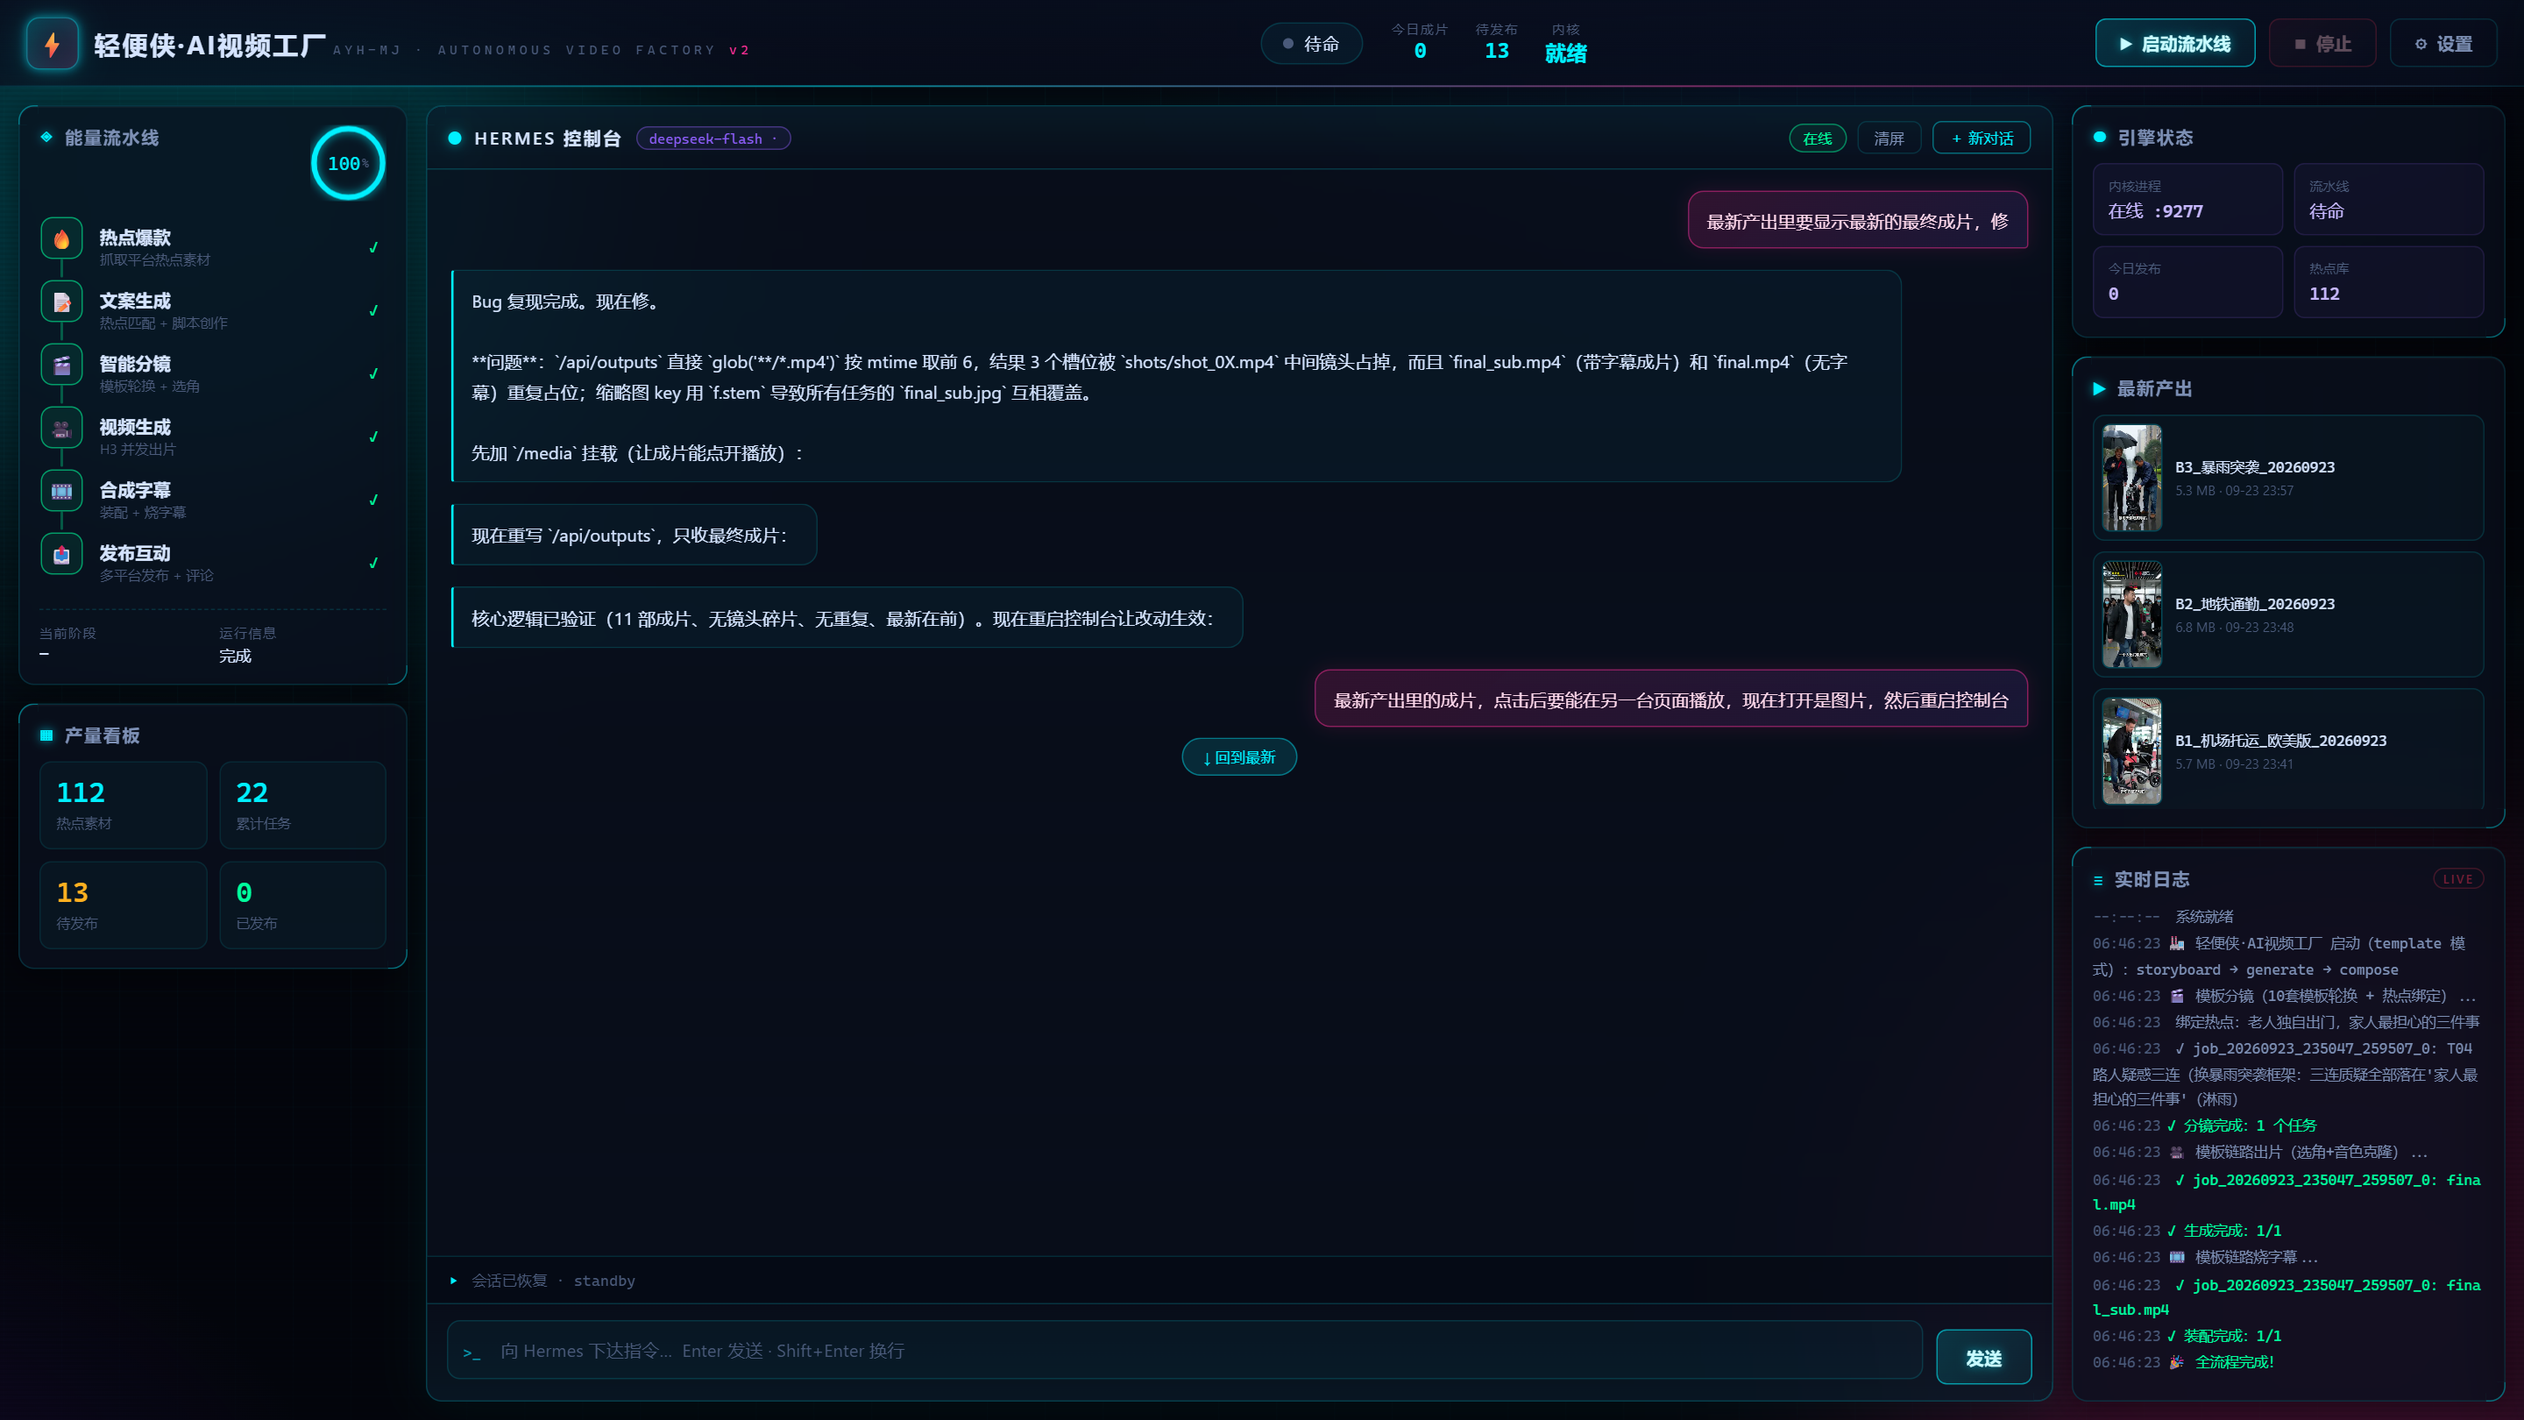
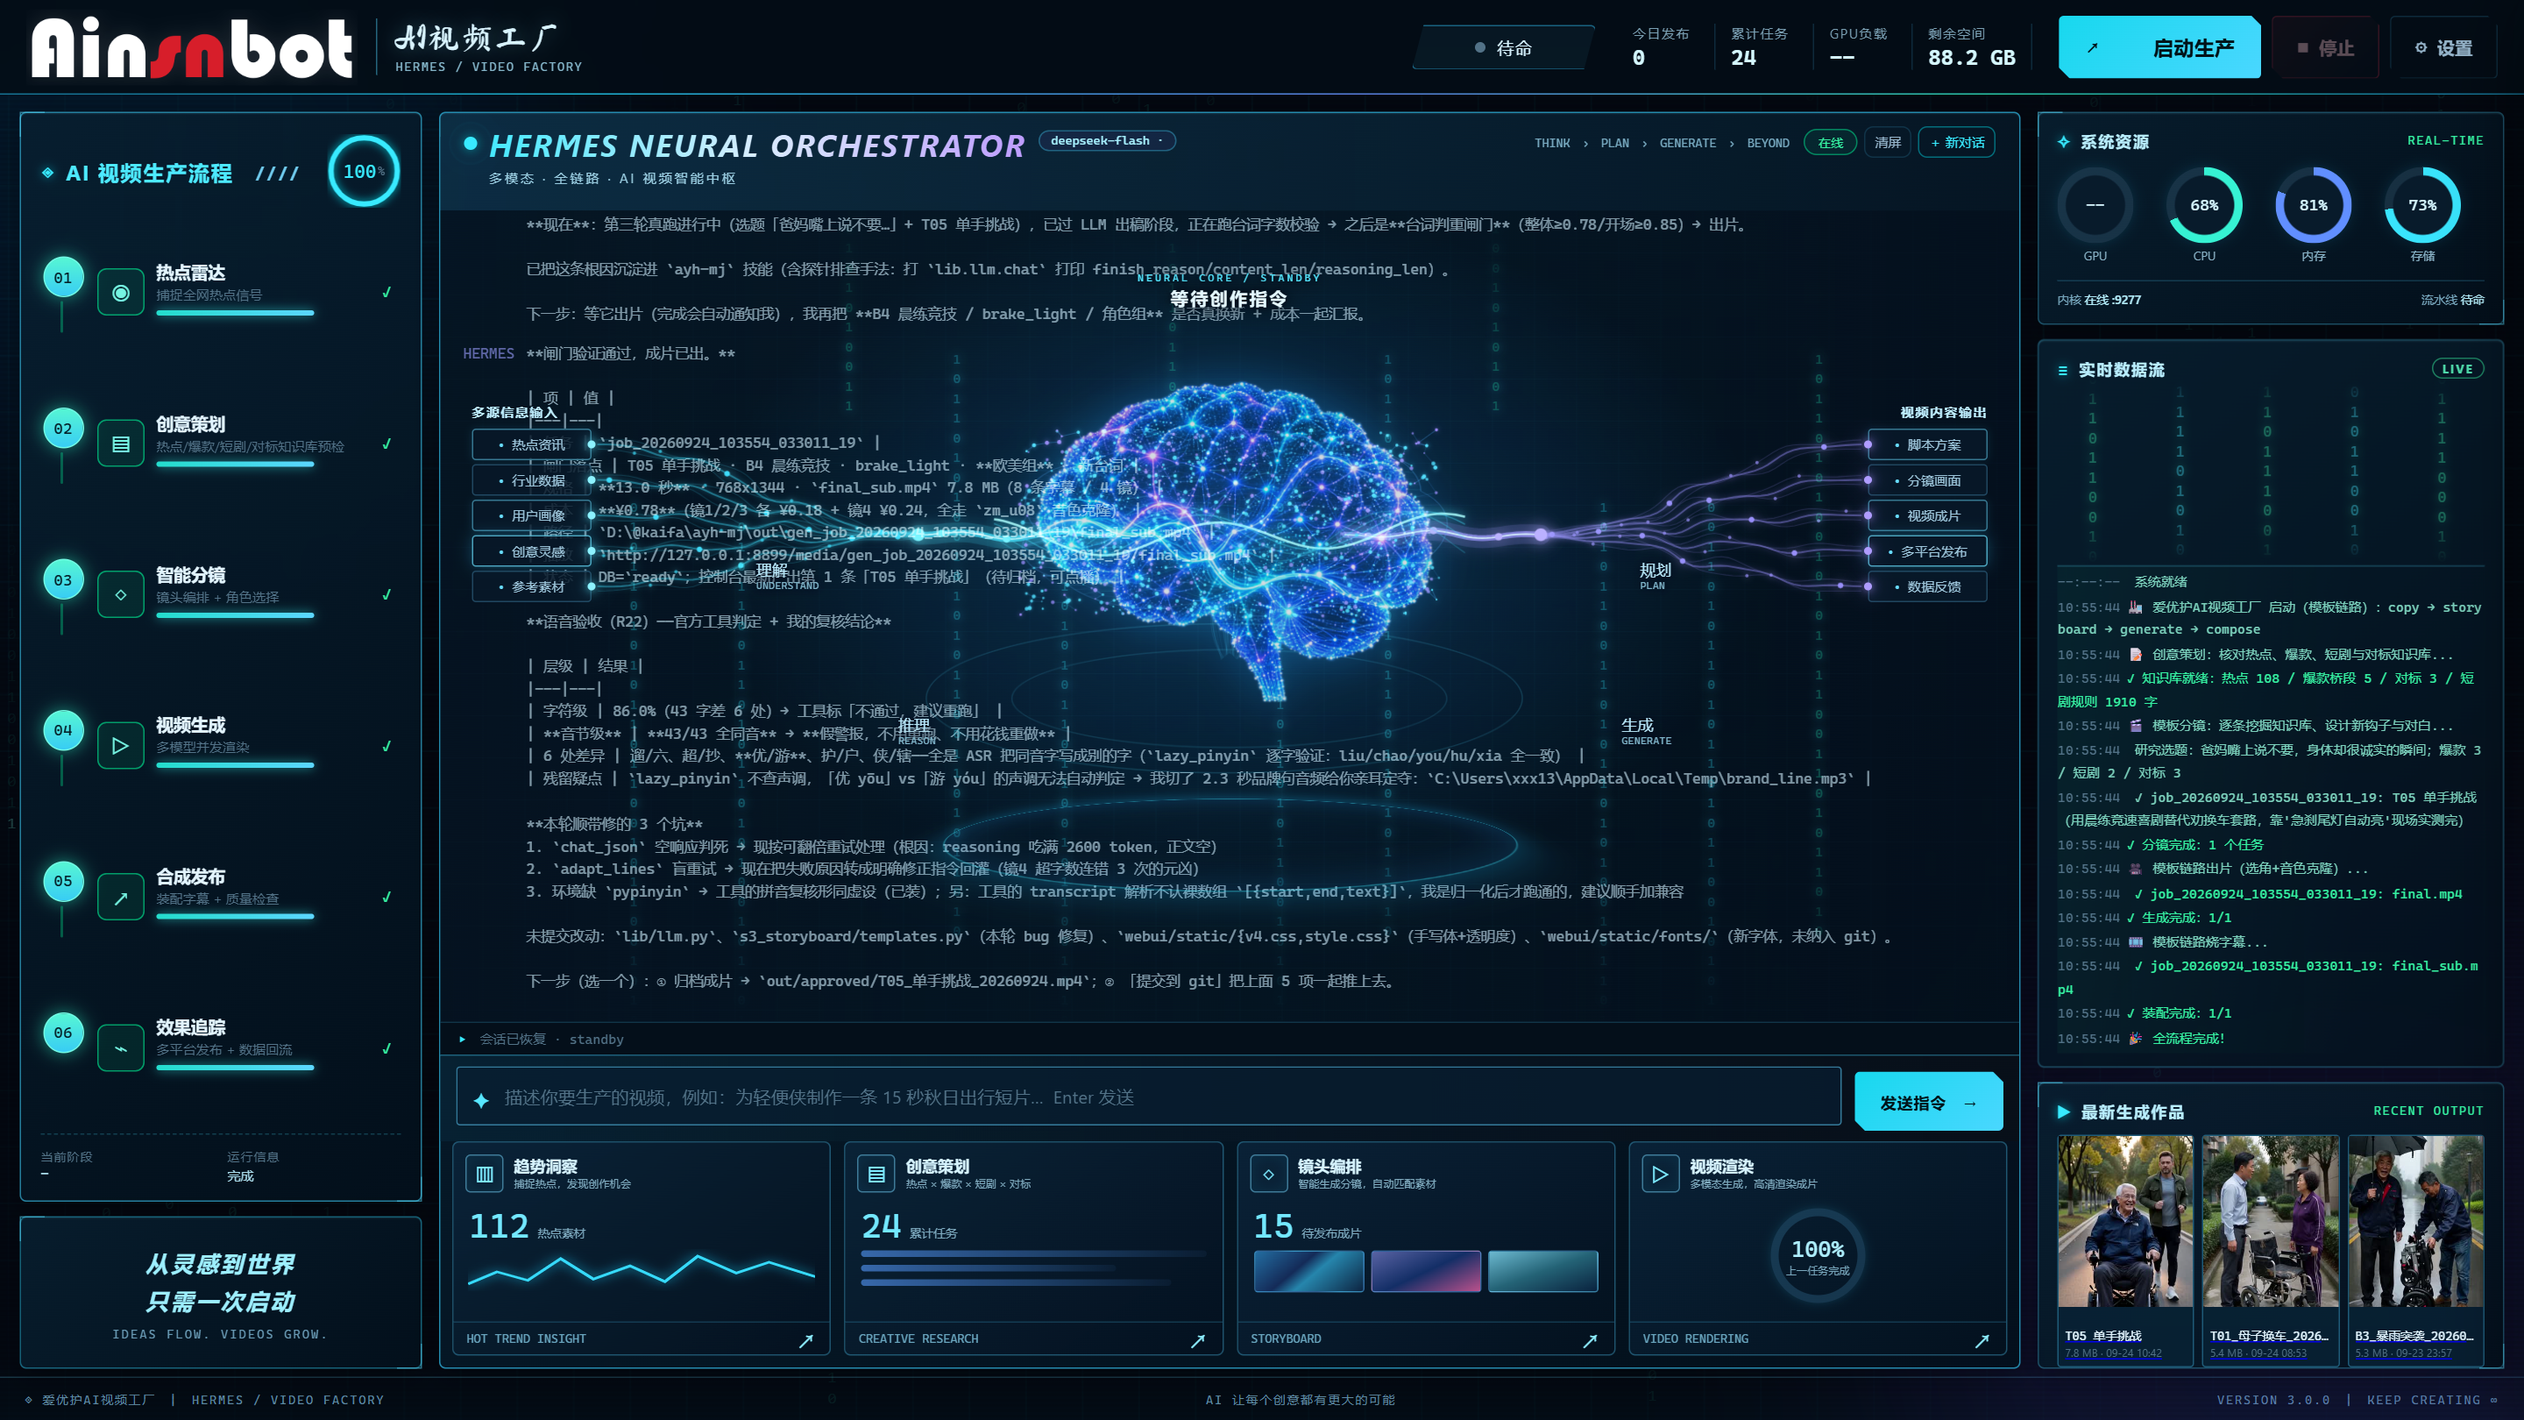
docs: README门面截图更新为v4神经界面(最新) + 界面资产同步(style/v4.css/品牌字体)

diff --git a/webui/static/v4.css b/webui/static/v4.css
@@ -8,11 +8,20 @@ body { min-height:620px; background:#030811; color:#d9f4ff; overflow:hidden; }
 .bg-grid { background-size:43px 43px; opacity:.9; }
 .bg-glow.g1 { background:#0086db; opacity:.10; }.bg-glow.g2 { background:#4934b6; opacity:.10; }
 .topbar { height:72px; padding:0 20px; gap:20px; background:rgba(3,12,22,.88); border-bottom:1px solid #167394; }
+/* 品牌手写体（广告风）：马善政毛笔楷书 · SIL OFL 1.1 · 已子集化仅含用到的字 */
+@font-face {
+    font-family: 'MaShanZheng';
+    src: url('/static/fonts/mashanzheng-brand.woff2') format('woff2');
+    font-weight: 400;
+    font-style: normal;
+    font-display: swap;
+}
+
 .brand { flex:0 0 auto; gap:14px; }
 .brand-wordmark { width:252px; height:58px; position:relative; flex:none; overflow:hidden; }
 .brand-wordmark img { position:absolute; left:0; top:50%; width:100%; max-width:none; height:auto; transform:translateY(-50%); filter:drop-shadow(0 0 8px rgba(255,255,255,.13)); }
 .brand-text { display:flex; flex-direction:column; align-items:flex-start; justify-content:center; gap:2px; min-height:43px; border-left:1px solid rgba(73,199,239,.48); padding-left:14px; }
-.brand-text h1 { margin:0; font-size:21px; font-weight:700; line-height:1.15; letter-spacing:1px; white-space:nowrap; }
+.brand-text h1 { margin:0; font-family:'MaShanZheng','华文行楷','STXingkai','方正舒体','FZShuTi','KaiTi','楷体',cursive; font-size:24px; font-weight:400; line-height:1.2; letter-spacing:1.5px; white-space:nowrap; text-shadow:0 0 14px rgba(120,225,255,.35); }
 .brand-sub { display:block; color:#86b7cb; font:9px/1.4 var(--mono); letter-spacing:1.2px; white-space:nowrap; }
 .topbar-center { justify-content:flex-end; gap:16px; }.status-pill { min-width:140px; justify-content:center; background:rgba(10,38,53,.45); clip-path:polygon(9px 0,100% 0,calc(100% - 9px) 100%,0 100%); border-color:#196381; }.top-metrics { border-left:0; }.top-metric { min-width:75px; align-items:flex-start; padding:0 12px; }.top-metric label { color:#7a9fb2; font-size:10px; }.top-metric b { font-size:16px; }.topbar-right { gap:8px; }.topbar-right .btn { min-height:48px; }.topbar-right .btn-primary { min-width:154px; justify-content:space-between; font-size:15px; font-weight:800; }
 .layout { height:calc(100vh - 105px); min-height:530px; grid-template-columns:clamp(270px,18vw,306px) minmax(570px,1fr) clamp(290px,21vw,355px); gap:13px; padding:13px 15px 6px; }
@@ -29,12 +38,12 @@ body { min-height:620px; background:#030811; color:#d9f4ff; overflow:hidden; }
 .logs-card { flex:1 1 auto; min-height:190px; padding-bottom:10px; overflow:hidden; }.logs-card h2 { position:relative; z-index:2; }.data-waterfall { height:34%; max-height:140px; overflow:hidden; position:relative; display:flex; justify-content:space-around; gap:7px; opacity:.42; mask-image:linear-gradient(transparent,#000 22%,#000 75%,transparent); }.data-waterfall span { width:12px; color:#38d8a1; font:11px/15px var(--mono); overflow-wrap:anywhere; animation:waterfall 6s linear infinite; text-shadow:0 0 7px #28e6aa; }.data-waterfall span:nth-child(2n) { animation-duration:8s; color:#40d7ec; }.data-waterfall span:nth-child(3n) { animation-duration:5s; }@keyframes waterfall { from { transform:translateY(-75%); } to { transform:translateY(30%); } }.logs-box { min-height:0; max-height:none; border-top:1px solid rgba(68,182,215,.31); margin-top:2px; padding-top:7px; font-size:10px; }.log-line { color:#7cd2bd; }.log-live { color:#54e8b4; }
 .outputs-card { flex:0 0 218px; min-height:0; }.outputs-grid { max-height:none; display:grid; grid-template-columns:repeat(3,minmax(0,1fr)); gap:6px; margin-top:10px; overflow:hidden; }.output-item { display:flex; flex-direction:column; align-items:stretch; min-width:0; padding:0; cursor:pointer; background:rgba(9,36,56,.72); border-color:rgba(61,175,218,.42); }.output-item img,.output-placeholder { display:block; width:100%; height:130px; aspect-ratio:9/16; object-fit:cover; background:linear-gradient(135deg,#11364f,#143962 35%,#0c2944 70%,#071827); border:0; border-radius:0; }.output-meta { padding:5px; }.output-name { font-size:9px; }.output-sub { margin-top:2px; font-size:8px; white-space:nowrap; overflow:hidden; text-overflow:ellipsis; }.outputs-grid .empty-hint { grid-column:1/-1; padding:55px 10px; }
 .page-footer { height:33px; padding:0 19px; display:flex; align-items:center; justify-content:space-between; color:#628da5; border-top:1px solid rgba(79,175,210,.28); font:9px var(--mono); letter-spacing:1.4px; background:rgba(3,9,17,.72); }
-@media(max-width:1450px) { .layout { grid-template-columns:260px minmax(520px,1fr) 285px; gap:9px; padding-left:9px; padding-right:9px; }.brand-wordmark { width:222px; height:52px; }.brand-text h1 { font-size:19px; }.brand-sub { font-size:8px; letter-spacing:.6px; }.topbar { gap:10px; }.top-metric { min-width:62px; padding:0 8px; }.console-title h2 { font-size:15px; }.console-phases { display:none; }.neural-hud { width:95px; }.hud-chip { width:80px; }.phase-understand { left:17%; }.phase-plan,.phase-generate { right:17%; } }
+@media(max-width:1450px) { .layout { grid-template-columns:260px minmax(520px,1fr) 285px; gap:9px; padding-left:9px; padding-right:9px; }.brand-wordmark { width:222px; height:52px; }.brand-text h1 { font-size:22px; }.brand-sub { font-size:8px; letter-spacing:.6px; }.topbar { gap:10px; }.top-metric { min-width:62px; padding:0 8px; }.console-title h2 { font-size:15px; }.console-phases { display:none; }.neural-hud { width:95px; }.hud-chip { width:80px; }.phase-understand { left:17%; }.phase-plan,.phase-generate { right:17%; } }
 @media(max-width:1120px) { .layout { grid-template-columns:240px minmax(0,1fr); }.col-right { display:none; }.top-metric:nth-child(n+3) { display:none; }.neural-hud { display:flex; }.production-grid { flex-basis:150px; gap:5px; }.production-card header { gap:4px; padding:7px 5px 0; }.production-card header small { display:none; }.feature-icon { flex-basis:24px; height:24px; }.production-card header b { font-size:10px; } }
 @media(max-width:860px) and (min-width:761px) { .layout { grid-template-columns:minmax(0,1fr); }.col-left { display:none; }.col-center { grid-column:1; }.neural-hud { display:flex; } }
 @media(max-width:1050px) and (min-width:761px) { .brand-sub { display:none; }.top-metrics { display:none; }.status-pill { min-width:105px; }.topbar-center { min-width:0; flex:1; }.topbar-right { flex:0 0 auto; } }
-@media(max-width:760px) { body { overflow:auto; min-height:0; }.topbar { height:auto; min-height:62px; flex-wrap:wrap; gap:6px; padding:6px 10px; }.brand { gap:8px; }.brand-wordmark { width:142px; height:36px; }.brand-text { padding-left:8px; min-height:28px; }.brand-text h1 { font-size:15px; }.brand-sub { display:none; }.topbar-center { margin-left:auto; }.top-metrics { display:none; }.topbar-right { width:100%; justify-content:flex-end; }.topbar-right .btn { min-height:30px; padding:5px 10px; font-size:10px; }.topbar-right .btn-primary { min-width:100px; font-size:11px; }.layout { display:block; height:auto; min-height:0; padding:7px; }.col-left { display:none; }.col-center { height:calc(100dvh - 135px); min-height:550px; }.console-head { flex-basis:56px; padding:7px; }.console-title h2 { font-size:12px; letter-spacing:0; }.console-title small,.console-tools .mini-btn,.model-badge { display:none; }.neural-stage { min-height:270px; }.neural-hud { display:none; }.neural-core-label { top:30%; }.neural-phase-label { display:none; }.neural-feed { left:3%; right:3%; height:145px; }.production-grid { grid-template-columns:repeat(2,1fr); flex-basis:140px; }.production-card:nth-child(n+3) { display:none; }.console-input { flex-basis:57px; }.send-btn { min-width:80px; }.page-footer { height:25px; font-size:7px; }.page-footer span:nth-child(2) { display:none; } }
-@media(max-width:420px) { .brand-wordmark { width:112px; height:30px; }.brand-text h1 { font-size:13px; }.topbar-center .status-pill { min-width:88px; padding:6px 7px; } }
+@media(max-width:760px) { body { overflow:auto; min-height:0; }.topbar { height:auto; min-height:62px; flex-wrap:wrap; gap:6px; padding:6px 10px; }.brand { gap:8px; }.brand-wordmark { width:142px; height:36px; }.brand-text { padding-left:8px; min-height:28px; }.brand-text h1 { font-size:17px; }.brand-sub { display:none; }.topbar-center { margin-left:auto; }.top-metrics { display:none; }.topbar-right { width:100%; justify-content:flex-end; }.topbar-right .btn { min-height:30px; padding:5px 10px; font-size:10px; }.topbar-right .btn-primary { min-width:100px; font-size:11px; }.layout { display:block; height:auto; min-height:0; padding:7px; }.col-left { display:none; }.col-center { height:calc(100dvh - 135px); min-height:550px; }.console-head { flex-basis:56px; padding:7px; }.console-title h2 { font-size:12px; letter-spacing:0; }.console-title small,.console-tools .mini-btn,.model-badge { display:none; }.neural-stage { min-height:270px; }.neural-hud { display:none; }.neural-core-label { top:30%; }.neural-phase-label { display:none; }.neural-feed { left:3%; right:3%; height:145px; }.production-grid { grid-template-columns:repeat(2,1fr); flex-basis:140px; }.production-card:nth-child(n+3) { display:none; }.console-input { flex-basis:57px; }.send-btn { min-width:80px; }.page-footer { height:25px; font-size:7px; }.page-footer span:nth-child(2) { display:none; } }
+@media(max-width:420px) { .brand-wordmark { width:112px; height:30px; }.brand-text h1 { font-size:15px; }.topbar-center .status-pill { min-width:88px; padding:6px 7px; } }
 @media(max-height:780px) and (min-width:761px) { .production-grid { flex-basis:145px; }.neural-stage { min-height:230px; }.neural-feed { height:112px; }.mantra-card { flex-basis:90px; }.outputs-card { flex-basis:185px; }.output-item img,.output-placeholder { height:100px; } }
 @media(prefers-reduced-motion:reduce) { .data-waterfall span,.stage[data-state="active"] .stage-meter span { animation:none!important; } }
 .neural-core-label { top:10%; }.neural-core-label strong { font-size:13px; margin:2px 0; }.neural-core-label small { display:none; }.core-eyebrow { font-size:8px; }
@@ -78,6 +87,14 @@ body { min-height:620px; background:#030811; color:#d9f4ff; overflow:hidden; }
 .neural-feed .think-block,
 .neural-feed .tool-card,
 .neural-feed .msg-meta { opacity: .4; }
+/* 宝哥 2026-09-24：回复与思考过程文字透明度 = 60%
+   注：底色本身带 alpha（.88/.75）会二次压暗到 45%，这里一并拉平，实际就是 60% */
+.neural-feed .msg-bubble,
+.neural-feed .think-block { opacity: .6; }
+.neural-feed .msg-assistant .msg-bubble { color: #d2f1ff; }
+.neural-feed .msg-user .msg-bubble { color: #90effd; }
+.neural-feed .think-block .think-head { color: #bfb2ff; }
+.neural-feed .think-block .think-body { color: #b4b2e5; }
 .neural-feed .think-block,
 .neural-feed .tool-card,
 .neural-feed .tool-card[data-state="failed"] {

diff --git a/webui/static/style.css b/webui/static/style.css
@@ -103,7 +103,7 @@ body {
 }
 @keyframes badgePulse { 0%,100% { box-shadow: var(--glow-cyan), inset 0 0 18px rgba(0,240,255,.12);} 50% { box-shadow: var(--glow-pink), inset 0 0 18px rgba(255,45,149,.14);} }
 
-.brand-text h1 { font-size: 19px; letter-spacing: 2px; font-weight: 700; white-space: nowrap; }
+.brand-text h1 { font-family: 'MaShanZheng','华文行楷','STXingkai','方正舒体','FZShuTi','KaiTi','楷体',cursive; font-size: 19px; letter-spacing: 2px; font-weight: 400; white-space: nowrap; }
 .brand-sub { font-size: 10px; letter-spacing: 3px; color: var(--text-faint); font-family: var(--mono); }
 .brand-sub em { color: var(--pink); font-style: normal; }
 
@@ -741,7 +741,7 @@ body {
 .topbar::after { background: linear-gradient(90deg, transparent 4%, #21d4f1 23%, #8678ff 54%, #35f2a2 79%, transparent 96%); }
 .brand-badge { width: 43px; height: 43px; border-radius: 5px; transform: skewY(-7deg); }
 .brand-badge span { width: 18px; height: 18px; display: block; transform: rotate(45deg); border: 2px solid var(--cyan); border-left-color: transparent; border-bottom-color: var(--purple); box-shadow: 0 0 13px var(--cyan); }
-.brand-text h1 { font-size: 23px; letter-spacing: 3px; }.brand-sub { color: #72a1bd; letter-spacing: 2px; }
+.brand-text h1 { font-family: 'MaShanZheng','华文行楷','STXingkai','方正舒体','FZShuTi','KaiTi','楷体',cursive; font-size: 23px; letter-spacing: 3px; }.brand-sub { color: #72a1bd; letter-spacing: 2px; }
 .topbar-center { gap: 26px; }.top-metrics { gap: 0; border-left: 1px solid var(--line); }.top-metric { min-width: 75px; border-right: 1px solid var(--line); }
 .top-metric b { color: #d5f8ff; font-size: 17px; }.top-metric label { margin-bottom: 2px; }
 .status-pill { background: rgba(38, 219, 255, .06); border-radius: 4px; padding: 8px 12px; }
